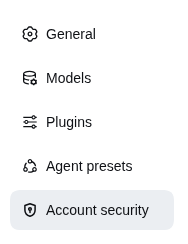
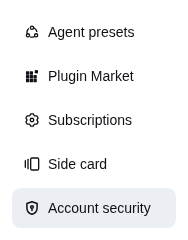
docs: retake the settings-panel screenshots the user management block obsoleted
The Account security panel shot predates the user management block (#95), so it ended at the
Change password button while the README right below it says an administrator sees the block
below that form: the image and the prose disagreed. Retaken in the isolated dsh 0.2.0-rc.2
instance (English UI, publicHost dsh.example.com, no test port in frame) as a single
full-panel shot carrying the form, the user list and the reset form.

- account-change-password.en.png: whole panel, administrator view (752x1387)
- admin-reset-success.en.png: the block after a reset, now on the 0.2.x host shell
- account-nav-icon.en.png: 0.2.x nav rail, same 188px width as before
- login-password-changed.png: host is dsh.example.com like the other two login cards;
  the 127.0.0.1:3086 test port is gone
- delete admin-users-panel.en.png: the full-panel shot already covers its content

Docs only: src/, lib/ and the published runtime behaviour are untouched.

diff --git a/README.md b/README.md
@@ -159,7 +159,7 @@ the gear). Once dsh offers an `icon` option, the stopgap and its code are remove
 
 ![Account security row in the settings nav](docs/demo/account-nav-icon.en.png)
 
-![Change-password panel](docs/demo/account-change-password.en.png)
+![The Account security panel in an administrator's settings: the change-password form and, below it, the user management block](docs/demo/account-change-password.en.png)
 
 The panel posts to `POST /auth/password` (`current` / `password` / `code`,
 form-urlencoded) and, on success, **every session of that user is revoked,
@@ -174,20 +174,19 @@ Passwords must be at least 14 characters, contain four character classes and
 differ from the current one. With TOTP on, a code already spent in the current
 30-second window is rejected as a replay: wait for the next code.
 
-An administrator on a full session also gets a **user management block** below that form: a
-read-only list (name, role, a mutually exclusive disabled / must-change-password / normal badge
-and a two-factor badge, with "You" on their own row) plus a reset form for another user. A reset
-forces the target to pick a new password at the next sign-in and revokes every session that user
-had, while the acting administrator's own session is untouched. When the administrator's own
-account has TOTP enabled, the reset asks for a current code as well. The block renders only for
-`role === "admin"` on a full (not forced-change) session, and a non-admin client never requests
-the user list at all. Resetting **your own** account is not possible: the server refuses it and
-the dropdown excludes you, so an administrator who has forgotten their own password must reset it
-on the server with `dsh-auth user passwd <name>`.
+An administrator on a full session also gets a **user management block** below that form (the
+panel screenshot above shows it): a read-only list (name, role, a mutually exclusive
+disabled / must-change-password / normal badge and a two-factor badge, with "You" on their own
+row) plus a reset form for another user. A reset forces the target to pick a new password at the
+next sign-in and revokes every session that user had, while the acting administrator's own
+session is untouched. When the administrator's own account has TOTP enabled, the reset asks for a
+current code as well. The block renders only for `role === "admin"` on a full (not forced-change)
+session, and a non-admin client never requests the user list at all. Resetting **your own**
+account is not possible: the server refuses it and the dropdown excludes you, so an administrator
+who has forgotten their own password must reset it on the server with
+`dsh-auth user passwd <name>`.
 
-![User management block: the user list and the reset form](docs/demo/admin-users-panel.en.png)
-
-![Successful reset: green confirmation and cleared fields](docs/demo/admin-reset-success.en.png)
+![Successful reset in that block: the green confirmation, the target now marked "must change", and every field cleared](docs/demo/admin-reset-success.en.png)
 
 ## Configuration
 

diff --git a/README.zh.md b/README.zh.md
@@ -134,7 +134,7 @@ printf '%s\n' '选一个强密码' | \
 
 ![设置导航里的「账号安全」行](docs/demo/account-nav-icon.en.png)
 
-![改密面板](docs/demo/account-change-password.en.png)
+![管理员账号下的「账号安全」面板：上面是改密表单，下面紧跟用户管理块](docs/demo/account-change-password.en.png)
 
 面板提交到 `POST /auth/password`（字段为 `current` / `password` / `code`，form-urlencoded 编码）。
 修改成功后，**该用户的全部会话都会被吊销，包括发起这次改密的那条会话**；客户端会**立即**把用户
@@ -146,17 +146,15 @@ printf '%s\n' '选一个强密码' | \
 新密码至少 14 位、须同时包含四类字符，且不能与当前密码相同。启用 TOTP 后，当前 30 秒窗口内已经
 用过的验证码会视为重放并拒绝，需要等下一个验证码。
 
-处于正式会话的管理员，还会在上方表单下面看到**用户管理块**：一张只读列表（用户名、角色，以及互斥
-的「已禁用 / 需改密 / 正常」状态徽标和两步验证徽标，本人行标「本人 / You」），外加一条针对他人的
-重置表单。重置会让目标用户在下次登录时被要求改密，并吊销该用户已有的全部会话；发起重置的管理员
-自己的会话不受影响。管理员自己开启了 TOTP 时，重置还需要填写一枚当前验证码。该模块只在
-`role === "admin"` 且会话为正式会话（非强制改密受限会话）时渲染，非 admin 客户端**根本不会请求**
-用户列表。**不允许重置自己**：服务端会拒绝，下拉也排除本人；管理员若忘记自己的口令，只能在服务器上
-用 `dsh-auth user passwd <name>` 重置。
+处于正式会话的管理员，还会在上方表单下面看到**用户管理块**（上面那张面板截图里就能看到）：一张只读
+列表（用户名、角色，以及互斥的「已禁用 / 需改密 / 正常」状态徽标和两步验证徽标，本人行标
+「本人 / You」），外加一条针对他人的重置表单。重置会让目标用户在下次登录时被要求改密，并吊销该用户
+已有的全部会话；发起重置的管理员自己的会话不受影响。管理员自己开启了 TOTP 时，重置还需要填写一枚当前
+验证码。该模块只在 `role === "admin"` 且会话为正式会话（非强制改密受限会话）时渲染，非 admin 客户端
+**根本不会请求**用户列表。**不允许重置自己**：服务端会拒绝，下拉也排除本人；管理员若忘记自己的口令，
+只能在服务器上用 `dsh-auth user passwd <name>` 重置。
 
-![用户管理块：用户列表与重置表单](docs/demo/admin-users-panel.en.png)
-
-![重置成功：绿色确认文案与已清空的字段](docs/demo/admin-reset-success.en.png)
+![用户管理块里的重置成功：绿色确认文案、目标用户已标记「需改密」、字段全部清空](docs/demo/admin-reset-success.en.png)
 
 ## 配置
 
